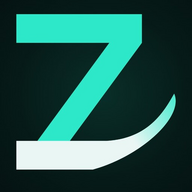
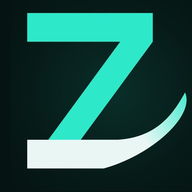
Fase 6: iconos PWA centrados, menu inferior con 'Mas' y tabla de clientes responsive en movil

Changed region(s): [[0.0625, 0.0625, 1.0, 0.9062]]

diff --git a/src/components/dashboard/BottomNav.tsx b/src/components/dashboard/BottomNav.tsx
@@ -2,38 +2,103 @@
 
 import Link from "next/link";
 import { usePathname } from "next/navigation";
+import { useEffect, useState } from "react";
 import { cn } from "@/lib/utils/cn";
 import { Icon } from "./Icon";
 
-const MOBILE_ITEMS = [
+// Solo lo más usado va fijo abajo — el resto vive dentro de "Más" para que
+// la barra no se quede apretada ni se corten etiquetas en pantallas
+// estrechas.
+const PRIMARY_ITEMS = [
   { href: "/dashboard/inicio", label: "Inicio", icon: "home" as const },
   { href: "/dashboard/calendario", label: "Calendario", icon: "calendar" as const },
   { href: "/dashboard/reservas", label: "Reservas", icon: "list" as const },
   { href: "/dashboard/clientes", label: "Clientes", icon: "users" as const },
-  { href: "/dashboard/configuracion", label: "Ajustes", icon: "settings" as const },
+];
+
+const MORE_ITEMS = [
+  { href: "/dashboard/estadisticas", label: "Estadísticas", icon: "chart" as const },
+  { href: "/dashboard/servicios", label: "Servicios", icon: "scissors" as const },
+  { href: "/dashboard/horarios", label: "Horarios", icon: "clock" as const },
+  { href: "/dashboard/empleados", label: "Empleados", icon: "user-group" as const },
+  { href: "/dashboard/configuracion", label: "Configuración", icon: "settings" as const },
 ];
 
 export function BottomNav() {
   const pathname = usePathname();
+  const [open, setOpen] = useState(false);
+
+  // Si el usuario navega (por ejemplo, tocando un enlace dentro del menú
+  // "Más"), el menú se cierra solo en vez de quedar abierto de fondo.
+  useEffect(() => {
+    setOpen(false);
+  }, [pathname]);
+
+  const moreActive = MORE_ITEMS.some((item) => pathname?.startsWith(item.href));
 
   return (
-    <nav className="fixed inset-x-0 bottom-0 z-30 flex border-t border-ink-100 bg-white/95 backdrop-blur-md md:hidden">
-      {MOBILE_ITEMS.map((item) => {
-        const active = pathname?.startsWith(item.href);
-        return (
-          <Link
-            key={item.href}
-            href={item.href}
-            className={cn(
-              "flex flex-1 flex-col items-center gap-1 py-2.5 text-[11px] font-medium",
-              active ? "text-ink-900" : "text-ink-400",
-            )}
-          >
-            <Icon name={item.icon} className="h-5 w-5" />
-            {item.label}
-          </Link>
-        );
-      })}
-    </nav>
+    <>
+      {open && (
+        <button
+          type="button"
+          aria-label="Cerrar menú"
+          onClick={() => setOpen(false)}
+          className="fixed inset-0 z-30 bg-ink-950/30 md:hidden"
+        />
+      )}
+
+      {open && (
+        <div className="fixed inset-x-3 bottom-[calc(4.25rem+env(safe-area-inset-bottom))] z-40 overflow-hidden rounded-2xl border border-ink-100 bg-white shadow-lg md:hidden">
+          {MORE_ITEMS.map((item) => {
+            const active = pathname?.startsWith(item.href);
+            return (
+              <Link
+                key={item.href}
+                href={item.href}
+                className={cn(
+                  "flex items-center gap-3 px-4 py-3 text-sm font-medium",
+                  active ? "bg-ink-900 text-white" : "text-ink-700 active:bg-ink-50",
+                )}
+              >
+                <Icon name={item.icon} className="h-5 w-5 shrink-0" />
+                {item.label}
+              </Link>
+            );
+          })}
+        </div>
+      )}
+
+      <nav
+        className="fixed inset-x-0 bottom-0 z-30 flex border-t border-ink-100 bg-white/95 backdrop-blur-md pb-[env(safe-area-inset-bottom)] md:hidden"
+      >
+        {PRIMARY_ITEMS.map((item) => {
+          const active = pathname?.startsWith(item.href);
+          return (
+            <Link
+              key={item.href}
+              href={item.href}
+              className={cn(
+                "flex flex-1 flex-col items-center gap-1 py-2.5 text-[11px] font-medium",
+                active ? "text-ink-900" : "text-ink-400",
+              )}
+            >
+              <Icon name={item.icon} className="h-5 w-5" />
+              {item.label}
+            </Link>
+          );
+        })}
+        <button
+          type="button"
+          onClick={() => setOpen((v) => !v)}
+          className={cn(
+            "flex flex-1 flex-col items-center gap-1 py-2.5 text-[11px] font-medium",
+            open || moreActive ? "text-ink-900" : "text-ink-400",
+          )}
+        >
+          <Icon name="more" className="h-5 w-5" />
+          Más
+        </button>
+      </nav>
+    </>
   );
 }

diff --git a/src/components/dashboard/CustomersTable.tsx b/src/components/dashboard/CustomersTable.tsx
@@ -84,7 +84,11 @@ export function CustomersTable({ customers, timezone }: { customers: CustomerRow
         <p className="py-8 text-center text-sm text-ink-400">Ningún cliente coincide con esa búsqueda.</p>
       ) : (
         <>
-          <div className="overflow-x-auto">
+          {/* Escritorio/tablet: tabla normal. En móvil se oculta y se */}
+          {/* sustituye por tarjetas (debajo) — una tabla con 4 columnas no */}
+          {/* cabe en una pantalla estrecha sin cortarse o requerir scroll */}
+          {/* horizontal. */}
+          <div className="hidden overflow-x-auto sm:block">
             <table className="w-full text-sm">
               <thead>
                 <tr className="border-b border-ink-100 text-left text-xs uppercase tracking-wide text-ink-400">
@@ -108,6 +112,28 @@ export function CustomersTable({ customers, timezone }: { customers: CustomerRow
                 ))}
               </tbody>
             </table>
+          </div>
+
+          {/* Móvil: una tarjeta por cliente, sin scroll horizontal. */}
+          <div className="space-y-2.5 sm:hidden">
+            {paged.map((customer) => (
+              <div key={customer.id} className="rounded-xl border border-ink-100 p-3.5">
+                <div className="flex items-start justify-between gap-3">
+                  <div className="min-w-0">
+                    <p className="truncate font-medium text-ink-900">{customer.name}</p>
+                    <p className="text-sm text-ink-500">{customer.phone}</p>
+                    {customer.email && <p className="truncate text-xs text-ink-400">{customer.email}</p>}
+                  </div>
+                  <div className="shrink-0 text-right text-xs text-ink-500">
+                    <p className="text-sm font-semibold text-ink-900">{customer.bookingsCount}</p>
+                    <p>{customer.bookingsCount === 1 ? "reserva" : "reservas"}</p>
+                  </div>
+                </div>
+                <p className="mt-2 text-xs text-ink-400">
+                  Última visita: {formatLastVisit(customer.lastVisit, timezone)}
+                </p>
+              </div>
+            ))}
           </div>
 
           <div className="flex flex-wrap items-center justify-between gap-3 pt-1">

diff --git a/src/components/dashboard/Icon.tsx b/src/components/dashboard/Icon.tsx
@@ -11,6 +11,7 @@ const PATHS: Record<DashboardNavItem["icon"], string> = {
   settings:
     "M12 15a3 3 0 1 0 0-6 3 3 0 0 0 0 6ZM19.4 15a1.7 1.7 0 0 0 .34 1.87l.06.06a2 2 0 1 1-2.83 2.83l-.06-.06a1.7 1.7 0 0 0-1.87-.34 1.7 1.7 0 0 0-1.04 1.56V21a2 2 0 1 1-4 0v-.09A1.7 1.7 0 0 0 8.96 19a1.7 1.7 0 0 0-1.87.34l-.06.06a2 2 0 1 1-2.83-2.83l.06-.06A1.7 1.7 0 0 0 4.6 15a1.7 1.7 0 0 0-1.56-1.04H3a2 2 0 1 1 0-4h.09A1.7 1.7 0 0 0 4.6 8.96a1.7 1.7 0 0 0-.34-1.87l-.06-.06a2 2 0 1 1 2.83-2.83l.06.06A1.7 1.7 0 0 0 9 4.6c.6-.25 1-.83 1.04-1.48V3a2 2 0 1 1 4 0v.09c.03.65.43 1.23 1.04 1.48.66.27 1.42.13 1.94-.36l.06-.06a2 2 0 1 1 2.83 2.83l-.06.06c-.34.34-.5 .8-.44 1.26",
   chart: "M4 19V10M10 19V5M16 19v-7M22 19H2",
+  more: "M5 12h.01M12 12h.01M19 12h.01",
 };
 
 export function Icon({ name, className }: { name: DashboardNavItem["icon"]; className?: string }) {

diff --git a/src/components/dashboard/nav-items.ts b/src/components/dashboard/nav-items.ts
@@ -1,7 +1,7 @@
 export interface DashboardNavItem {
   href: string;
   label: string;
-  icon: "home" | "calendar" | "list" | "users" | "scissors" | "clock" | "user-group" | "settings" | "chart";
+  icon: "home" | "calendar" | "list" | "users" | "scissors" | "clock" | "user-group" | "settings" | "chart" | "more";
 }
 
 export const DASHBOARD_NAV_ITEMS: DashboardNavItem[] = [
